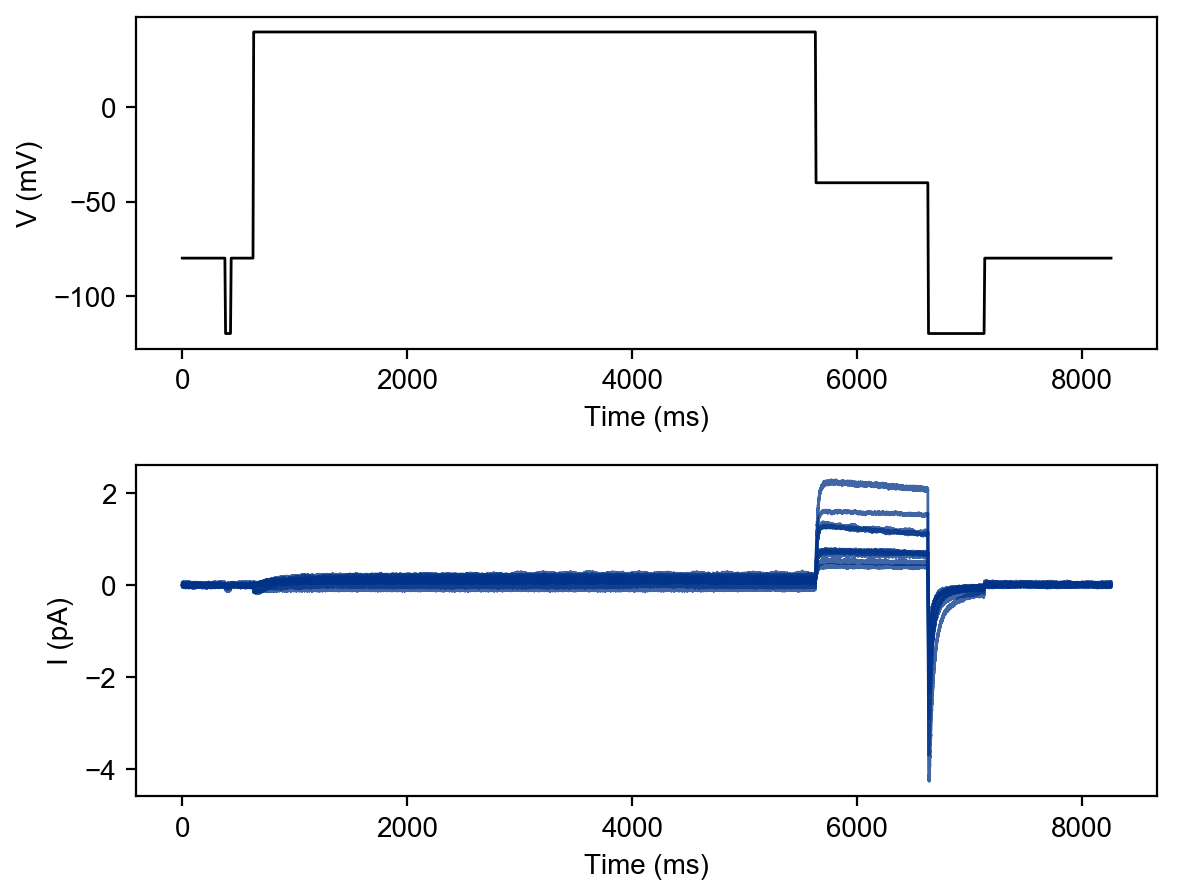
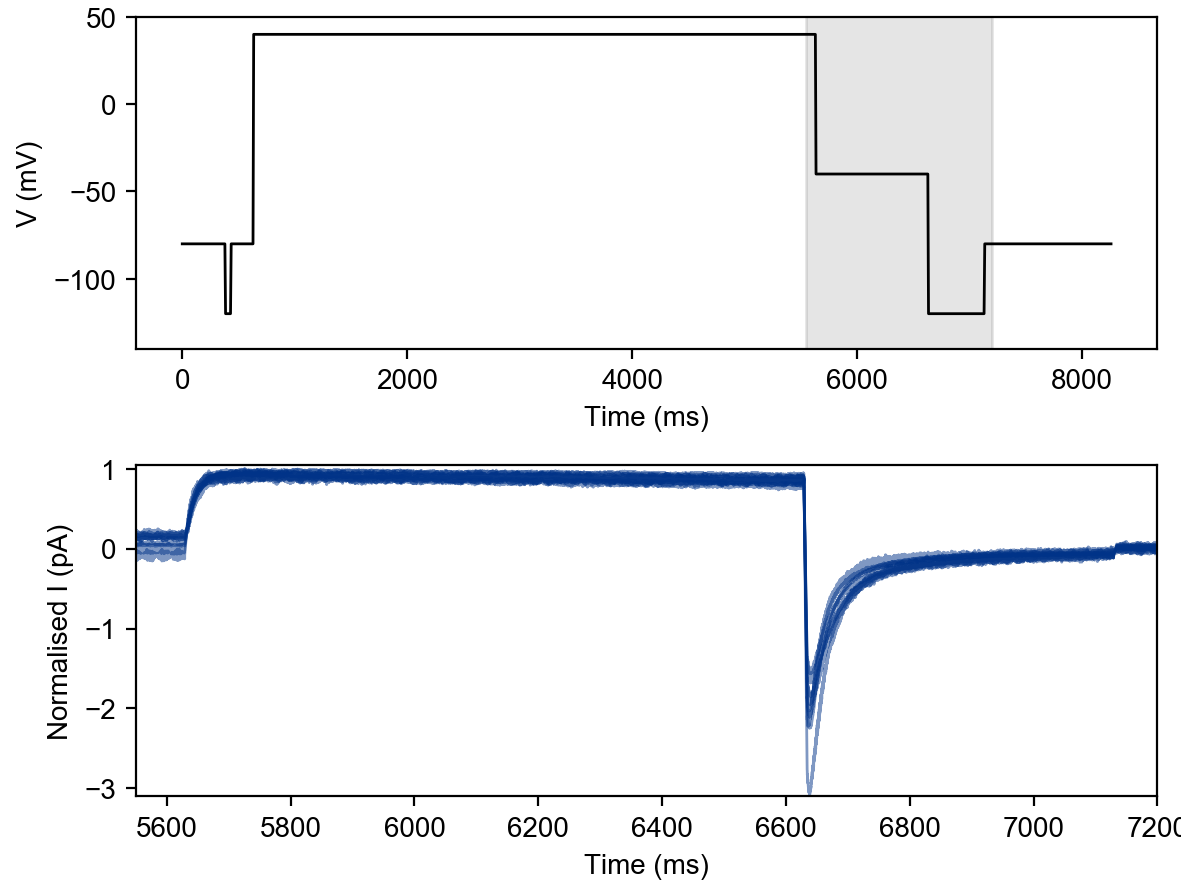
Normalised current

diff --git a/figures/f2-summary-curves/fx-activation-1.py b/figures/f2-summary-curves/fx-activation-1.py
@@ -43,12 +43,14 @@ def current(ax, cell):
     t = log['time']
     c = log['current']
 
+    c /= np.max(c)
+
     # Fold steps
     split = sumstat.split_points(3, False)
     for i, bounds in enumerate(split):
         if i == 5:
             lo, hi = bounds
-            ax.plot(t[lo:hi] - t[lo], c[lo:hi], color='#003388', lw=1, alpha=0.75)
+            ax.plot(t[lo:hi] - t[lo], c[lo:hi], color='#003388', lw=1, alpha=0.5)
 
 
 def voltage(ax, cell):
@@ -89,12 +91,21 @@ voltage(ax00, 1)
 # Plot steady state of activation
 ax10 = fig.add_subplot(grid[1, 0])
 ax10.set_xlabel('Time (ms)')
-ax10.set_ylabel('I (pA)')
+ax10.set_ylabel('Normalised I (pA)')
 #ax10.set_ylim(-0.1, 1.1)
+
+# Zoom
+x = [5550, 7200]
+ax00.fill_between(x, [-150, -150], [60, 60], color='k', alpha=0.1)
+ax00.set_ylim(-140, 50)
+ax10.set_xlim(*x)
+ax10.set_ylim(-3.1, 1.05)
+
 
 for cell in cell_list:
 
     # Show activation diagram
     current(ax10, cell)
+
 
 plt.savefig(base + '.png')
